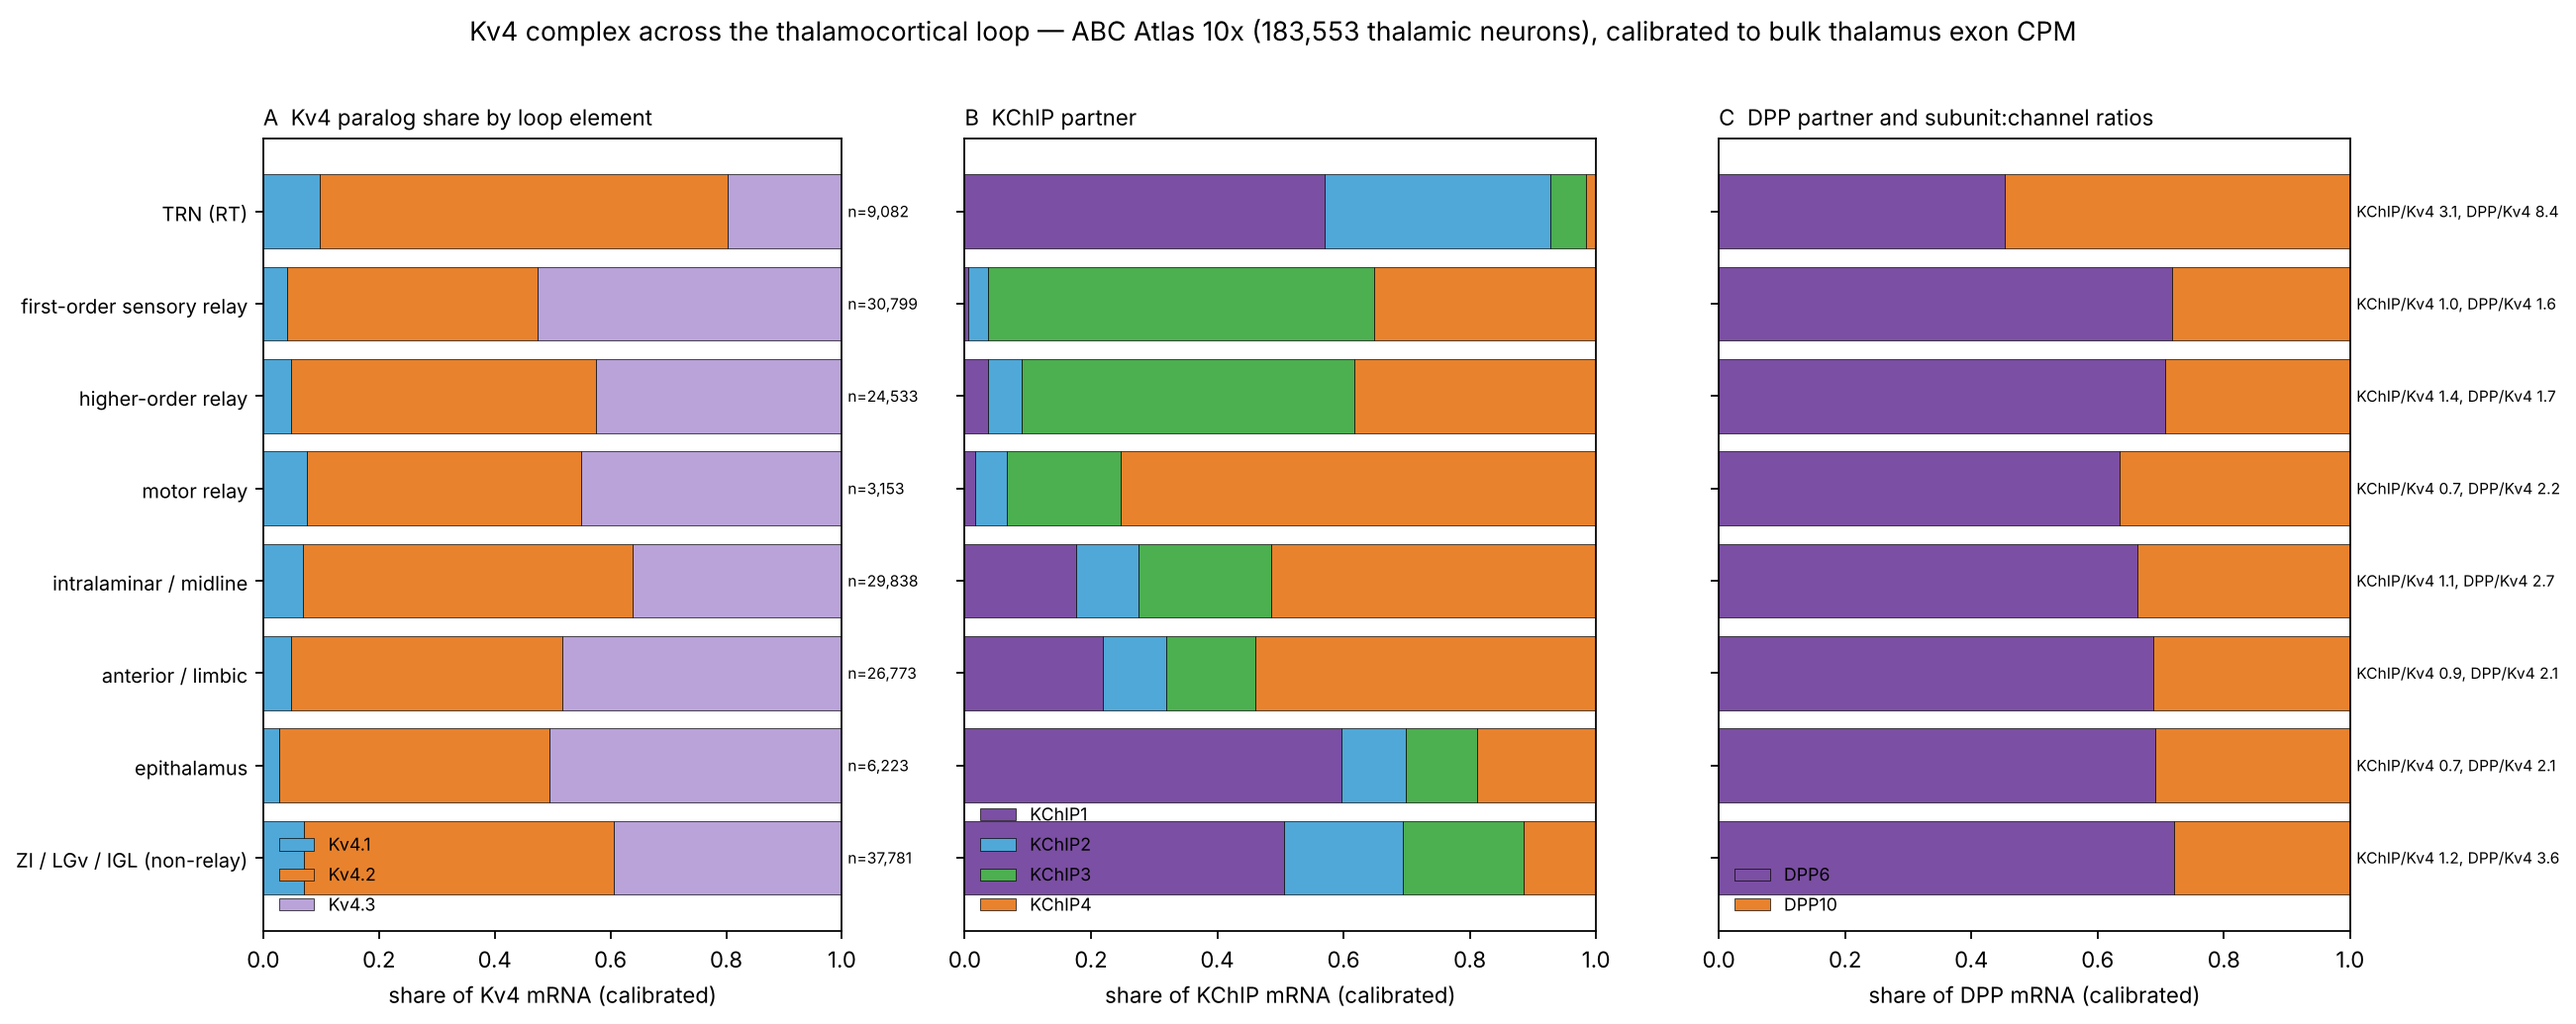
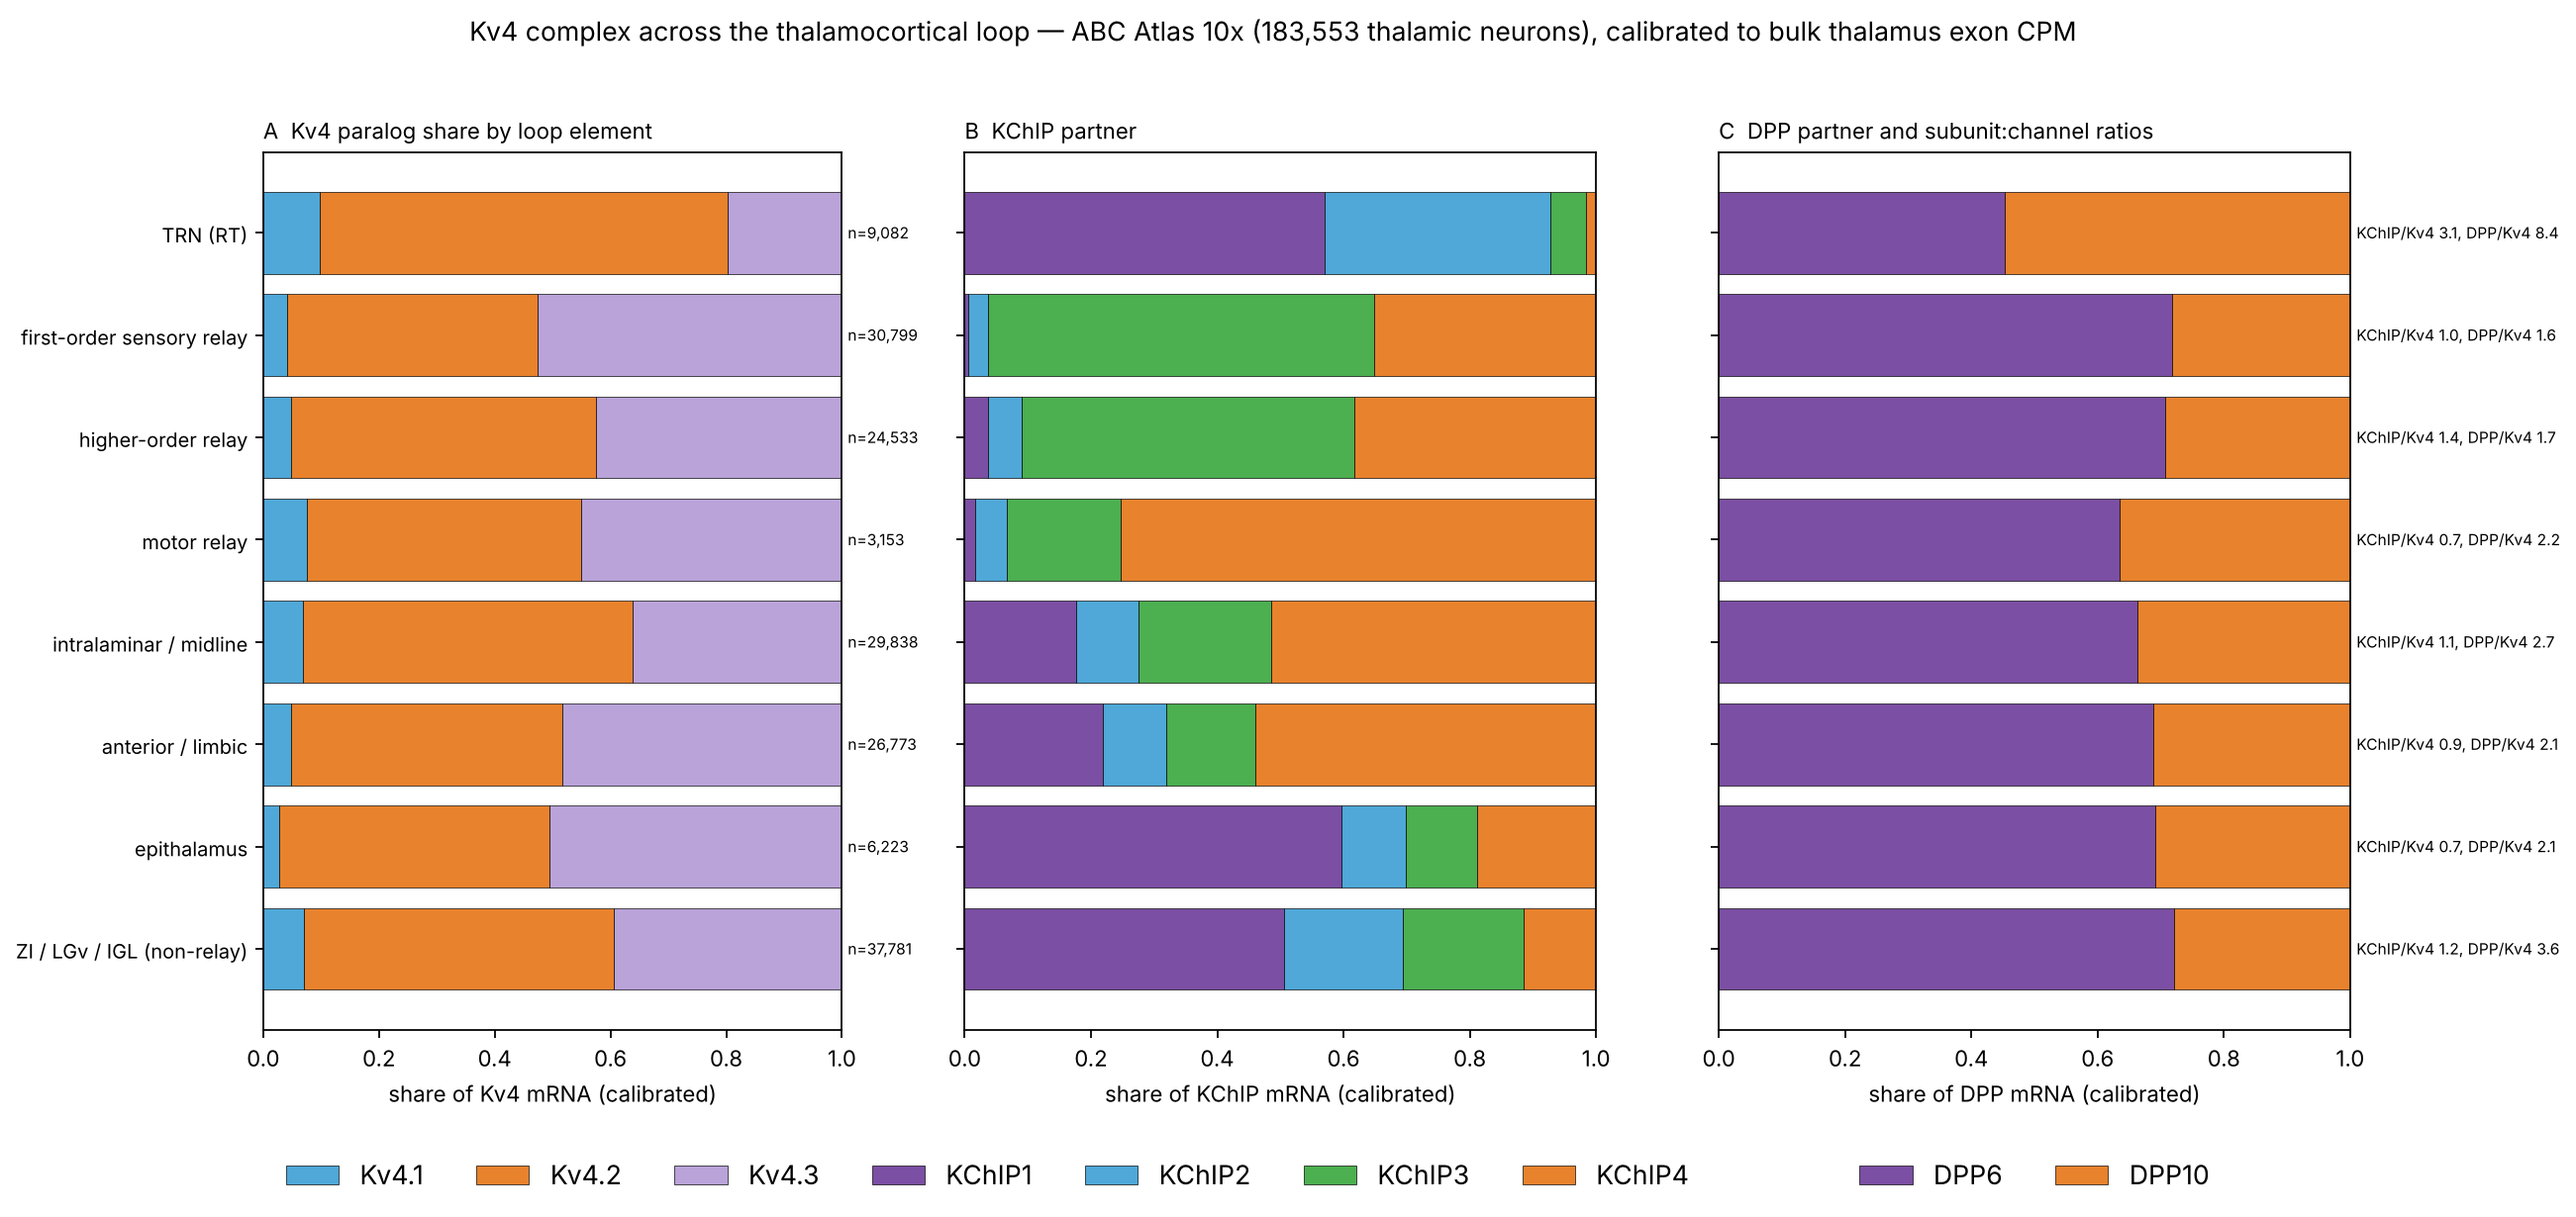
Thalamus figure: large legends below panels; trn_subnetworks.py for Hartley 2024 Spp1/Ecel1 split (per cell, runs on Lambda)
Claude-Session: https://claude.ai/code/session_01LyLqBU1JBtmoS9Pe1mdPxR

diff --git a/thalamus/trn_subnetworks.py b/thalamus/trn_subnetworks.py
@@ -1,0 +1,51 @@
+#!/usr/bin/env python3
+"""TRN subnetworks of Hartley et al. (2024, Cell Rep 43:115037): Spp1+ (core; first-order-projecting) vs
+Ecel1+ (shell; higher-order-projecting) reticular neurons, classified per cell in the ABC Atlas 10x data.
+
+Spp1 mRNA is sparse in 10x data (detected in <1% of cells in most RT clusters), so the split is done per cell,
+not per cluster: a cell is 'Spp1+' if Spp1 > 0, 'Ecel1+' if Ecel1 > 0 and Spp1 == 0, 'double' if both,
+'neither' otherwise. Also classes by Pvalb/Sst (high = above the RT median) for comparison.
+
+Runs where th10x_cells.parquet lives (Lambda). Usage: python3 trn_subnetworks.py TABLES_DIR OUT_DIR
+Writes OUT/tables/th10x_trn_subnetworks.csv (per class: n, Kv4-complex means, detection, Pvalb/Sst) and
+       OUT/tables/th10x_trn_cells.csv.gz (per RT cell: class labels + panel genes; ~9k rows) for plotting here.
+"""
+import os, sys
+import numpy as np, pandas as pd
+sys.path.insert(0, os.path.dirname(os.path.abspath(__file__)))
+from th_common import KV4, KCHIP, DPP, read_cells  # noqa: E402
+
+TABLES = sys.argv[1] if len(sys.argv) > 1 else 'tables'
+OUT = sys.argv[2] if len(sys.argv) > 2 else '.'
+os.makedirs(f'{OUT}/tables', exist_ok=True)
+df = read_cells(f'{TABLES}/th10x_cells')
+rt = df[df['subclass'].str.contains('RT-ZI', na=False)].copy()
+rt = rt[rt['Gad2'] > 0]                                   # GABAergic RT-ZI cells only
+spp = rt['Spp1'] > 0; ece = rt['Ecel1'] > 0
+rt['subnetwork'] = np.select([spp & ~ece, ece & ~spp, spp & ece], ['Spp1+ (core/FO)', 'Ecel1+ (shell/HO)', 'Spp1+Ecel1+'], 'neither')
+rt['pv_sst'] = np.select([(rt.Pvalb > rt.Pvalb.median()) & (rt.Sst <= rt.Sst.median()),
+                          (rt.Sst > rt.Sst.median()) & (rt.Pvalb <= rt.Pvalb.median()),
+                          (rt.Pvalb > rt.Pvalb.median()) & (rt.Sst > rt.Sst.median())],
+                         ['Pvalb-high', 'Sst-high', 'Pvalb+Sst-high'], 'both-low')
+genes = [g for g in KV4 + KCHIP + DPP + ['Pvalb', 'Sst', 'Spp1', 'Ecel1', 'Gnb3', 'Camk2a', 'Slc32a1', 'Cacna1g', 'Cacna1h', 'Cacna1i', 'Hcn2', 'Kcnc1', 'Kcnc2', 'Kcnn2'] if g in rt.columns]
+keep = ['cluster', 'supertype', 'feature_matrix_label', 'subnetwork', 'pv_sst'] + genes
+rt[keep].to_csv(f'{OUT}/tables/th10x_trn_cells.csv.gz')
+
+rows = []
+for key in ['subnetwork', 'pv_sst']:
+    for lab, sub in rt.groupby(key):
+        L = 2.0 ** sub[genes] - 1.0
+        r = {'grouping': key, 'class': lab, 'n_cells': len(sub)}
+        for g in genes:
+            r[f'cpm_{g}'] = L[g].mean(); r[f'det_{g}'] = (sub[g] > 0).mean()
+        kv = sum(r[f'cpm_{g}'] for g in KV4)
+        r['share_Kcnd2_raw'] = r['cpm_Kcnd2'] / kv; r['Kcnd3_over_Kcnd2_raw'] = r['cpm_Kcnd3'] / r['cpm_Kcnd2']
+        r['Kcnip1_over_Kcnip2_raw'] = r['cpm_Kcnip1'] / max(r['cpm_Kcnip2'], 1e-9)
+        r['Dpp10_over_Dpp6_raw'] = r['cpm_Dpp10'] / r['cpm_Dpp6']
+        rows.append(r)
+S = pd.DataFrame(rows); S.to_csv(f'{OUT}/tables/th10x_trn_subnetworks.csv', index=False)
+pd.set_option('display.width', 250)
+print(f'{len(rt):,} GABAergic RT-ZI cells')
+print(S[['grouping', 'class', 'n_cells', 'cpm_Kcnd2', 'cpm_Kcnd3', 'Kcnd3_over_Kcnd2_raw', 'cpm_Kcnip1', 'cpm_Kcnip2', 'cpm_Kcnip4',
+         'cpm_Dpp6', 'cpm_Dpp10', 'cpm_Pvalb', 'cpm_Sst', 'cpm_Cacna1g', 'cpm_Cacna1h', 'cpm_Cacna1i']].round(1).to_string(index=False))
+print('\nsubnetwork x Pvalb/Sst cross-tab:'); print(pd.crosstab(rt.subnetwork, rt.pv_sst))

diff --git a/thalamus/calibrate_th10x.py b/thalamus/calibrate_th10x.py
@@ -65,7 +65,7 @@ rt = C[C.subclass.str.contains('RT-ZI') & (C.n_cells >= 50)].copy()
 rt.to_csv(f'{OUT}/tables/th10x_rt_clusters.csv', index=False)
 
 # ---------------- figure
-fig, axes = plt.subplots(1, 3, figsize=(17, 6.5), gridspec_kw={'width_ratios': [1.1, 1.2, 1.2]})
+fig, axes = plt.subplots(1, 3, figsize=(17, 7.2), gridspec_kw={'width_ratios': [1.1, 1.2, 1.2]})
 order = [i for i in CL.index if i != 'other']
 y = np.arange(len(order))
 cols = {'Kcnd1': '#4FA8D8', 'Kcnd2': '#E8822D', 'Kcnd3': '#B9A3D9'}
@@ -77,14 +77,14 @@ for i, o in enumerate(order):
     ax.text(1.01, i, f'n={CL.loc[o, "n_cells"]:,}', va='center', fontsize=7)
 ax.set_yticks(y); ax.set_yticklabels(order, fontsize=9); ax.invert_yaxis(); ax.set_xlim(0, 1)
 ax.set_xlabel('share of Kv4 mRNA (calibrated)'); ax.set_title('A  Kv4 paralog share by loop element', loc='left', fontsize=10)
-ax.legend(fontsize=8, frameon=False, loc='lower left')
+ax.legend(fontsize=12, frameon=False, loc='upper center', bbox_to_anchor=(0.5, -0.12), ncol=3)
 kc = {'Kcnip1': '#7B4FA3', 'Kcnip2': '#4FA8D8', 'Kcnip3': '#4CAF50', 'Kcnip4': '#E8822D'}
 ax = axes[1]; left = np.zeros(len(order))
 for g in KCHIP:
     v = CL.loc[order, f'KChIP_comp_{g}'].values
     ax.barh(y, v, left=left, color=kc[g], label=g.replace('Kcnip', 'KChIP'), edgecolor='k', lw=0.3); left += v
 ax.set_yticks(y); ax.set_yticklabels([]); ax.invert_yaxis(); ax.set_xlim(0, 1)
-ax.set_xlabel('share of KChIP mRNA (calibrated)'); ax.set_title('B  KChIP partner', loc='left', fontsize=10); ax.legend(fontsize=8, frameon=False, loc='lower left')
+ax.set_xlabel('share of KChIP mRNA (calibrated)'); ax.set_title('B  KChIP partner', loc='left', fontsize=10); ax.legend(fontsize=12, frameon=False, loc='upper center', bbox_to_anchor=(0.5, -0.12), ncol=4)
 ax = axes[2]; left = np.zeros(len(order))
 for g, c in zip(DPP, ['#7B4FA3', '#E8822D']):
     v = CL.loc[order, f'DPP_comp_{g}'].values
@@ -92,7 +92,7 @@ for g, c in zip(DPP, ['#7B4FA3', '#E8822D']):
 for i, o in enumerate(order):
     ax.text(1.01, i, f'KChIP/Kv4 {CL.loc[o, "KChIP_per_Kv4"]:.1f}, DPP/Kv4 {CL.loc[o, "DPP_per_Kv4"]:.1f}', va='center', fontsize=7)
 ax.set_yticks(y); ax.set_yticklabels([]); ax.invert_yaxis(); ax.set_xlim(0, 1)
-ax.set_xlabel('share of DPP mRNA (calibrated)'); ax.set_title('C  DPP partner and subunit:channel ratios', loc='left', fontsize=10); ax.legend(fontsize=8, frameon=False, loc='lower left')
+ax.set_xlabel('share of DPP mRNA (calibrated)'); ax.set_title('C  DPP partner and subunit:channel ratios', loc='left', fontsize=10); ax.legend(fontsize=12, frameon=False, loc='upper center', bbox_to_anchor=(0.5, -0.12), ncol=2)
 fig.suptitle('Kv4 complex across the thalamocortical loop — ABC Atlas 10x (183,553 thalamic neurons), calibrated to bulk thalamus exon CPM', y=1.0)
 fig.savefig(f'{OUT}/figures/th10x_kv4_calibrated.png', dpi=160, bbox_inches='tight')
 pd.set_option('display.width', 220)
